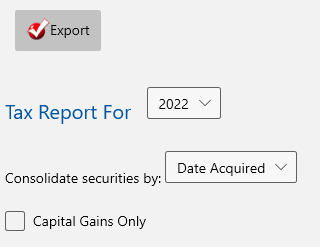
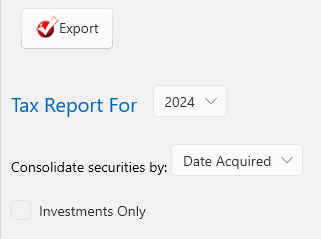
Change "capital gains only" to "Investments Only" on tax report and skip tax free and tax deferred accounts.

diff --git a/Source/WPF/MyMoney/Dialogs/TaxReportDialog.xaml b/Source/WPF/MyMoney/Dialogs/TaxReportDialog.xaml
@@ -38,9 +38,9 @@
                 <ComboBoxItem>Date Sold</ComboBoxItem>
             </ComboBox>
         </StackPanel>
-        
 
-        <CheckBox Margin="10,5,10,5" x:Name="CapitalGainsOnlyCheckBox" Grid.Row="4">Capital Gains Only</CheckBox>
+
+        <CheckBox Margin="10,5,10,5" x:Name="InvestmentsOnlyCheckBox" Grid.Row="4">Investments Only</CheckBox>
 
         <StackPanel Margin="10,20,10,5" Orientation="Horizontal" Grid.Row="6"  HorizontalAlignment="Right">
             <Button Margin="5,0,5,0" MinWidth="70" IsDefault="True" x:Name="OK" Click="OK_Click">_Ok</Button>

diff --git a/Source/WPF/MyMoney/Reports/TaxReport.cs b/Source/WPF/MyMoney/Reports/TaxReport.cs
@@ -24,7 +24,7 @@ namespace Walkabout.Reports
         private DateTime startDate;
         private DateTime endDate;
         private bool consolidateOnDateSold;
-        private bool capitalGainsOnly;
+        private bool investmentsOnly;
         private int fiscalYearStart;
         private const string FiscalPrefix = "FY ";
 
@@ -55,7 +55,7 @@ namespace Walkabout.Reports
         class TaxReportState : IReportState
         {
             public int FiscalYearStart { get; set; }
-            public bool CapitalGainsOnly { get; set; }
+            public bool InvestmentsOnly { get; set; }
             public bool ConsolidateOnDateSold { get; set; }
             public int TaxYear { get; set; }
 
@@ -74,7 +74,7 @@ namespace Walkabout.Reports
             return new TaxReportState()
             {
                 FiscalYearStart = this.fiscalYearStart,
-                CapitalGainsOnly = this.capitalGainsOnly,
+                InvestmentsOnly = this.investmentsOnly,
                 ConsolidateOnDateSold = this.consolidateOnDateSold,
                 TaxYear = this.startDate.Year
             };
@@ -85,7 +85,7 @@ namespace Walkabout.Reports
             if (state is TaxReportState taxReportState)
             {
                 this.FiscalYearStart = taxReportState.FiscalYearStart;
-                this.capitalGainsOnly = taxReportState.CapitalGainsOnly;
+                this.investmentsOnly = taxReportState.InvestmentsOnly;
                 this.consolidateOnDateSold = taxReportState.ConsolidateOnDateSold;
                 this.SetStartDate(taxReportState.TaxYear);
             }
@@ -150,16 +150,6 @@ namespace Walkabout.Reports
                 byYearCombo.Margin = new Thickness(10, 0, 0, 0);
                 this.AddInline(heading, byYearCombo);
 
-                /*
-                <StackPanel Margin="10,5,10,5"  Grid.Row="2" Orientation="Horizontal">
-                    <TextBlock Text="Consolidate securities by: " Background="Transparent"/>
-                    <ComboBox x:Name="ConsolidateSecuritiesCombo" SelectedIndex="0">
-                        <ComboBoxItem>Date Acquired</ComboBoxItem>
-                        <ComboBoxItem>Date Sold</ComboBoxItem>
-                    </ComboBox>
-                </StackPanel>
-                <CheckBox Margin="10,5,10,5" x:Name="CapitalGainsOnlyCheckBox" Grid.Row="3">Capital Gains Only</CheckBox>
-                */
 
                 ComboBox consolidateCombo = new ComboBox();
                 consolidateCombo.Items.Add("Date Acquired");
@@ -173,10 +163,10 @@ namespace Walkabout.Reports
                 this.AddInline(prompt, consolidateCombo);
 
                 CheckBox checkBox = new CheckBox();
-                checkBox.Content = "Capital Gains Only";
-                checkBox.IsChecked = this.capitalGainsOnly;
-                checkBox.Checked += this.OnCapitalGainsOnlyChanged;
-                checkBox.Unchecked += this.OnCapitalGainsOnlyChanged;
+                checkBox.Content = "Investments Only";
+                checkBox.IsChecked = this.investmentsOnly;
+                checkBox.Checked += this.OnInvestmentsOnlyChanged;
+                checkBox.Unchecked += this.OnInvestmentsOnlyChanged;
                 writer.WriteParagraph("");
                 Paragraph checkBoxParagraph = fwriter.CurrentParagraph;
                 checkBoxParagraph.Inlines.Add(new InlineUIContainer(checkBox));
@@ -184,11 +174,8 @@ namespace Walkabout.Reports
 
             this.WriteCurrencyHeading(writer, this.DefaultCurrency);
 
-            if (!this.capitalGainsOnly)
-            {
-                // find all tax related categories and summarize accordingly.
-                this.GenerateCategories(writer);
-            }
+            // find all tax related categories and summarize accordingly.
+            this.GenerateCategories(writer);
             this.GenerateCapitalGains(writer);
 
             if (writer is FlowDocumentReportWriter)
@@ -249,10 +236,10 @@ namespace Walkabout.Reports
             _ = view.Generate(this);
         }
 
-        private void OnCapitalGainsOnlyChanged(object sender, RoutedEventArgs e)
+        private void OnInvestmentsOnlyChanged(object sender, RoutedEventArgs e)
         {
             CheckBox checkBox = (CheckBox)sender;
-            this.capitalGainsOnly = checkBox.IsChecked == true;
+            this.investmentsOnly = checkBox.IsChecked == true;
             this.Renerate();
         }
 
@@ -388,6 +375,10 @@ namespace Walkabout.Reports
                     {
                         continue;
                     }
+                    if (data.Account.IsTaxDeferred || data.Account.IsTaxFree)
+                    {
+                        continue;
+                    }
 
                     this.WriteCapitalGains(writer, data);
                     total += data.TotalGain;
@@ -404,6 +395,10 @@ namespace Walkabout.Reports
                 foreach (var data in calculator.LongTerm)
                 {
                     if (!this.InRange(data.DateSold))
+                    {
+                        continue;
+                    }
+                    if (data.Account.IsTaxDeferred || data.Account.IsTaxFree)
                     {
                         continue;
                     }
@@ -508,7 +503,7 @@ namespace Walkabout.Reports
         private void GenerateCategories(IReportWriter writer)
         {
             TaxCategoryCollection taxCategories = new TaxCategoryCollection();
-            List<TaxCategory> list = taxCategories.GenerateGroups(this.money, this.startDate, this.endDate);
+            List<TaxCategory> list = taxCategories.GenerateGroups(this.money, this.investmentsOnly, this.startDate, this.endDate);
 
             if (list == null)
             {
@@ -637,7 +632,7 @@ namespace Walkabout.Reports
         public override void Export(string filename)
         {
             TxfExporter exporter = new TxfExporter(this.money);
-            exporter.Export(filename, this.startDate, this.endDate, this.capitalGainsOnly, this.consolidateOnDateSold);
+            exporter.Export(filename, this.startDate, this.endDate, this.investmentsOnly, this.consolidateOnDateSold);
         }
 
 

diff --git a/Source/WPF/MyMoney/Taxes/TxfExporter.cs b/Source/WPF/MyMoney/Taxes/TxfExporter.cs
@@ -21,25 +21,21 @@ namespace Walkabout.Migrate
             this.money = money;
         }
 
-        public void Export(string txfFile, DateTime startDate, DateTime endDate, bool cpitalGainsOnly, bool consolidateOnDateSold)
+        public void Export(string txfFile, DateTime startDate, DateTime endDate, bool investmentsOnly, bool consolidateOnDateSold)
         {
             using (StreamWriter sw = new StreamWriter(txfFile))
             {
                 WriteHeader(sw);
-                if (!cpitalGainsOnly)
-                {
-                    this.ExportCategories(sw, startDate, endDate);
-                }
-
+                this.ExportCategories(sw, investmentsOnly, startDate, endDate);                
                 CapitalGainsTaxCalculator calculator = new CapitalGainsTaxCalculator(this.money, endDate, consolidateOnDateSold, true);
                 this.ExportCapitalGains(calculator, null, startDate, endDate, sw);
             }
         }
 
-        private void ExportCategories(TextWriter writer, DateTime startDate, DateTime endDate)
+        private void ExportCategories(TextWriter writer, bool investmentsOnly, DateTime startDate, DateTime endDate)
         {
             TaxCategoryCollection taxCategories = new TaxCategoryCollection();
-            List<TaxCategory> list = taxCategories.GenerateGroups(this.money, startDate, endDate);
+            List<TaxCategory> list = taxCategories.GenerateGroups(this.money, investmentsOnly, startDate, endDate);
             if (list != null)
             {
                 foreach (TaxCategory tc in list)
@@ -146,7 +142,7 @@ namespace Walkabout.Migrate
             {
                 if (data.DateSold >= startDate && data.DateSold < endDate)
                 {
-                    if (a == null || data.Account == a)
+                    if ((a == null || data.Account == a) && !data.Account.IsTaxFree && !data.Account.IsTaxDeferred)
                     {
                         // cannot compute the cost basis.
                         WriteRecordFormat4(writer, data, 673);
@@ -158,7 +154,7 @@ namespace Walkabout.Migrate
             {
                 if (data.DateSold >= startDate && data.DateSold < endDate)
                 {
-                    if (a == null || data.Account == a)
+                    if ((a == null || data.Account == a) && !data.Account.IsTaxFree && !data.Account.IsTaxDeferred)
                     {
                         int refnum = 321; // short term gain/loss;
                         WriteRecordFormat4(writer, data, refnum);
@@ -170,7 +166,7 @@ namespace Walkabout.Migrate
             {
                 if (data.DateSold >= startDate && data.DateSold < endDate)
                 {
-                    if (a == null || data.Account == a)
+                    if ((a == null || data.Account == a) && !data.Account.IsTaxFree && !data.Account.IsTaxDeferred)
                     {
                         int refnum = 323; // long term gain/loss
                         WriteRecordFormat4(writer, data, refnum);

diff --git a/Source/WPF/MyMoney/Taxes/TaxCategory.cs b/Source/WPF/MyMoney/Taxes/TaxCategory.cs
@@ -304,7 +304,7 @@ namespace Walkabout.Taxes
         /// <summary>
         /// Populate the "Groups" property on the tax categories that are in use in the given date range.
         /// </summary>
-        public List<TaxCategory> GenerateGroups(MyMoney money, DateTime startDate, DateTime endDate)
+        public List<TaxCategory> GenerateGroups(MyMoney money, bool investmentsOnly, DateTime startDate, DateTime endDate)
         {
             List<TaxCategory> result = new List<TaxCategory>();
             TaxCategoryCollection taxCategories = new TaxCategoryCollection();
@@ -346,11 +346,15 @@ namespace Walkabout.Taxes
                     var rows = money.Transactions.GetTransactionsByCategory(c, null, (cat) => { return c == cat; });
                     foreach (Transaction t in rows)
                     {
+                        if (investmentsOnly && t.Investment == null)
+                        {
+                            continue;
+                        }
                         if (t.TaxDate < startDate || t.TaxDate >= endDate)
                         {
                             continue;
                         }
-                        if (t.Account.IsTaxDeferred)
+                        if (t.Account.IsTaxDeferred || t.Account.IsTaxFree)
                         {
                             continue;
                         }

diff --git a/Source/WPF/MyMoney/Dialogs/TaxReportDialog.xaml.cs b/Source/WPF/MyMoney/Dialogs/TaxReportDialog.xaml.cs
@@ -40,10 +40,10 @@ namespace Walkabout.Dialogs
             set { this.ConsolidateSecuritiesCombo.SelectedIndex = value ? 1 : 0; }
         }
 
-        public bool CapitalGainsOnly
+        public bool InvestmentsOnly
         {
-            get { return this.CapitalGainsOnlyCheckBox.IsChecked == true; }
-            set { this.CapitalGainsOnlyCheckBox.IsChecked = value; }
+            get { return this.InvestmentsOnlyCheckBox.IsChecked == true; }
+            set { this.InvestmentsOnlyCheckBox.IsChecked = value; }
         }
 
         public int Year

diff --git a/Source/WPF/MyMoney/Database/Money.cs b/Source/WPF/MyMoney/Database/Money.cs
@@ -2466,7 +2466,6 @@ namespace Walkabout.Data
         private int unaccepted;
         private SqlGuid syncGuid;
         private AccountFlags flags;
-        private Category category; // for category funds.
         private Category categoryForPrincipal;  // For Loan accounts
         private Category categoryForInterest;   // For Loan accounts
 

diff --git a/Source/WPF/Version/Version.cs b/Source/WPF/Version/Version.cs
@@ -6,5 +6,5 @@ using System.Reflection;
 // And also sync this with the MSIX package manifest in
 // ~\MyMoney.Net\Source\WPF\MoneyPackage\Package.appxmanifest
 
-[assembly: AssemblyVersion("2.1.0.31")]
-[assembly: AssemblyFileVersion("2.1.0.31")]
+[assembly: AssemblyVersion("2.1.0.32")]
+[assembly: AssemblyFileVersion("2.1.0.32")]

diff --git a/docs/Reports/TaxReport.md b/docs/Reports/TaxReport.md
@@ -7,7 +7,8 @@ You can associate your categories with "Tax Categories" using the field shown in
 The "Reports" menu contains an "Income Tax Report" and a "W3 and Other Tax Forms" report.
 
 ### Income Tax Report
-The income tax report provides the following options to select the year, and specify how you want the details to be reported and whether to show capital gains only.
+The income tax report provides the following options to select the year, and specify how you want the details to be reported and whether to show data for investment accounts only.  It will skip tax free
+or tax deferred investment accounts (like your 401k).
 
 ![](../Images/Tax%20Report1.png)
 
@@ -17,7 +18,7 @@ If you have set your Tax Categories correctly the report shows a summary for eac
 
 It also shows long term and short term capital gains (See [Cost Basis](../Accounts/CostBasis.md)) for any security sales you have in your investment accounts for the selected year.
 
-To import into Turbo Tax, use the Import menu to import “**From Accounting Software** ” then pick “Other Financial Software (TXF file), then click “**Browse to Find File** �� and click Import and wha-la.  The following shows long term capital gains information imported from a txf file (which saves a lot of typing):
+To import into Turbo Tax, use the Import menu to import “**From Accounting Software** ” then pick “Other Financial Software (TXF file), then click “**Browse to Find File** and click Import and wha-la.  The following shows long term capital gains information imported from a txf file (which saves a lot of typing):
 
 ![](../Images/Tax%20Report2.jpeg)
 
